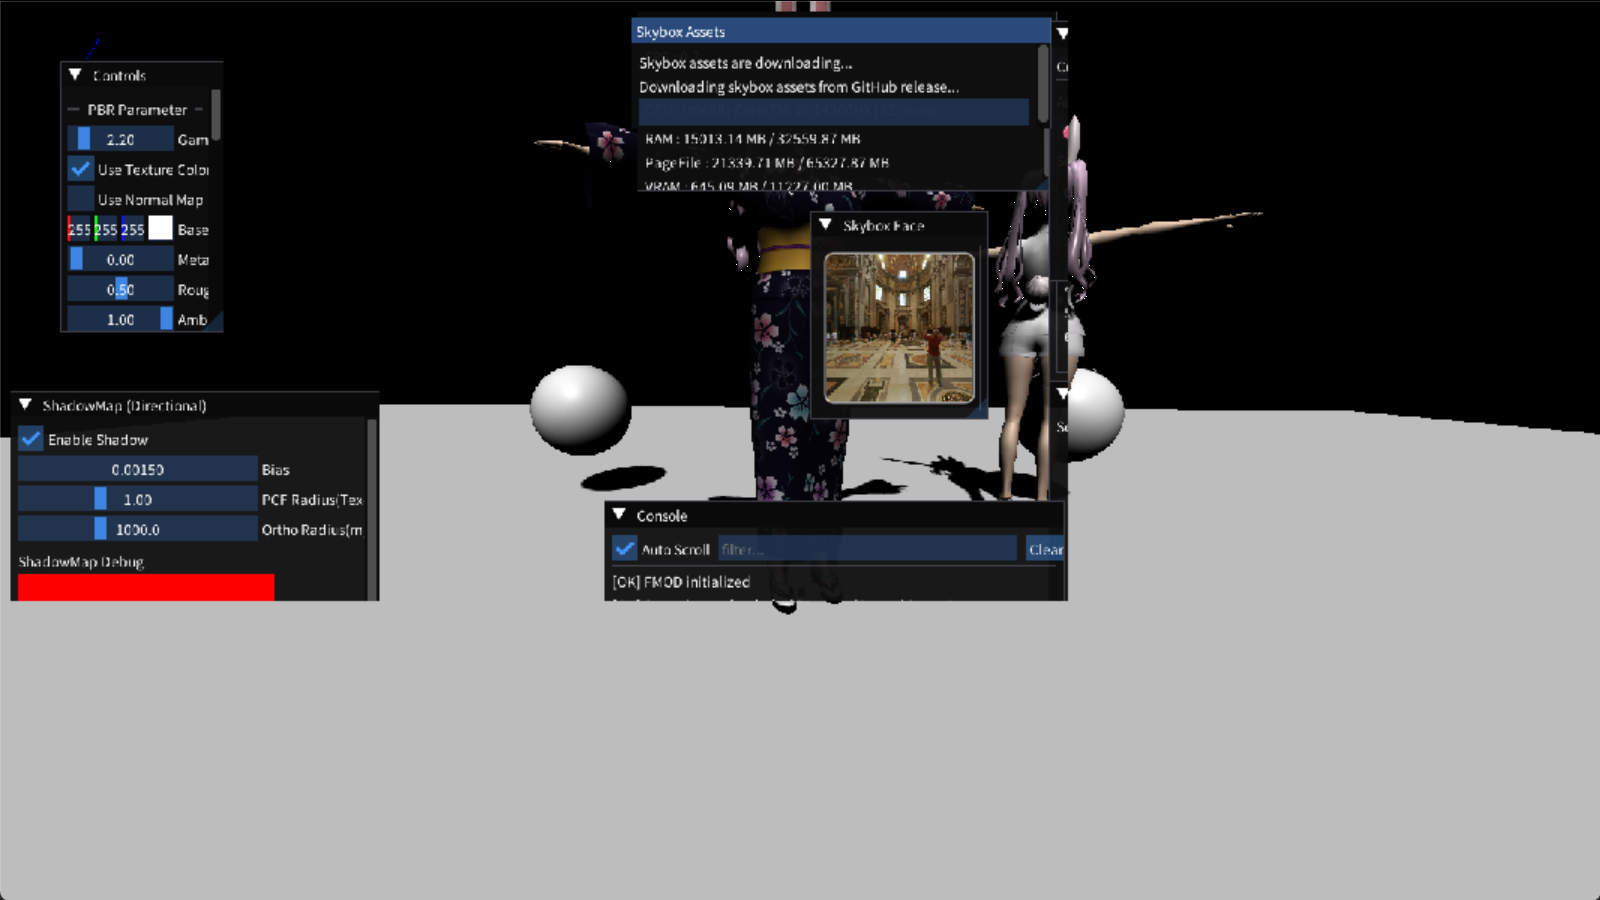
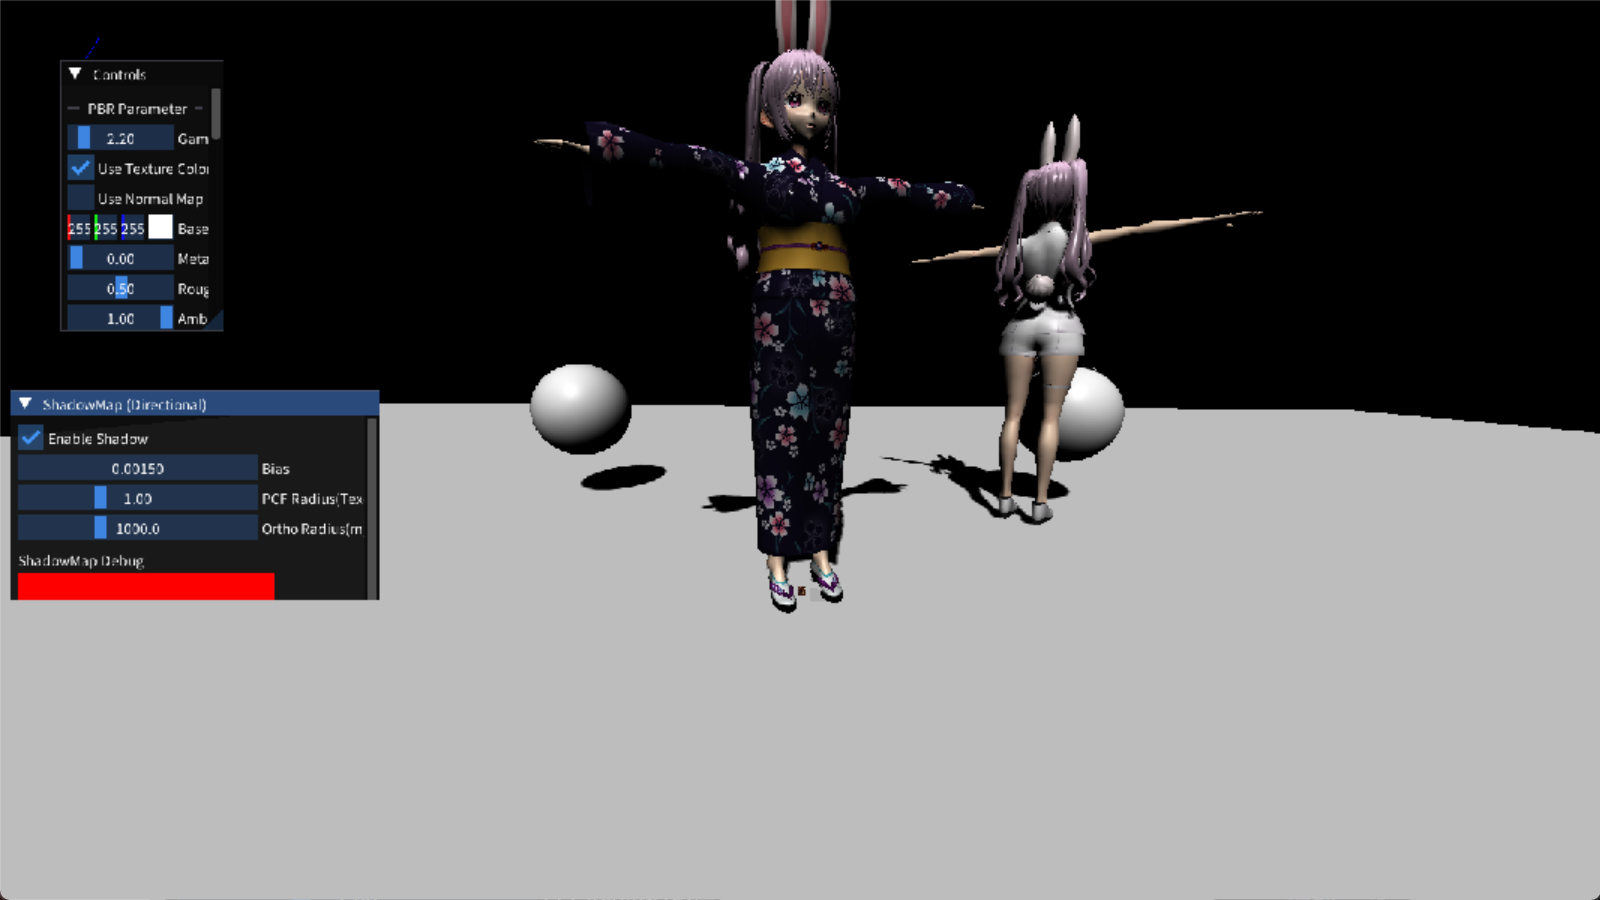
fix: polish public README capture media

diff --git a/Dx11/33_Sound_Animation_Camera_Motion/App.cpp b/Dx11/33_Sound_Animation_Camera_Motion/App.cpp
@@ -485,7 +485,7 @@ struct App::Impl {
 	int                          m_SpawnTotal = 0;
 
 	// 씬 이미지 창 관련
-	std::wstring                 m_CurrentSceneImagePath = L"..\\Resource\\Image\\SceneA.png";
+	std::wstring                 m_CurrentSceneImagePath = L"..\\Resource\\Image\\Public\\Comic\\01.png";
 	ID3D11ShaderResourceView*    m_pSceneImageSRV = nullptr;
 	ImVec2                       m_SceneImageSize = ImVec2(0, 0);
 	bool                         m_ShowSceneImageWindow = true;
@@ -991,7 +991,7 @@ void App::OnUpdate(const float& dt)
 			m_->PushLog("[Scene Change] Change Scane to <SceneA>");
 			m_SceneIndex = 0;
 			// 씬 이미지 경로 변경
-			m_->m_CurrentSceneImagePath = L"..\\Resource\\Image\\SceneA.png";
+			m_->m_CurrentSceneImagePath = L"..\\Resource\\Image\\Public\\Comic\\01.png";
 			LoadSceneImage(m_->m_CurrentSceneImagePath);
 			// 팝업 표시
 			m_->m_ShowScenePopup = true;
@@ -1459,11 +1459,14 @@ void App::OnRender()
 	ImGui::NewFrame();
 
 	RenderControlPannel();
-	RenderSceneCollection();
-	RenderModelPannel();
-	RenderConsolPannel();
-	m_->m_SystemInfo.RenderUI();
-	RenderSceneImageWindow();
+	if (!ReadmeCapture::IsEnabled())
+	{
+		RenderSceneCollection();
+		RenderModelPannel();
+		RenderConsolPannel();
+		m_->m_SystemInfo.RenderUI();
+		RenderSceneImageWindow();
+	}
 	const unsigned int skyboxGeneration = SkyboxAssetManager::GetCompletedGeneration();
 	if (skyboxGeneration != m_->m_SkyboxAssetGeneration)
 	{

diff --git a/Dx11/35_DeferredRendering/App.cpp b/Dx11/35_DeferredRendering/App.cpp
@@ -602,9 +602,9 @@ struct App::Impl {
 	int m_SpawnTotal = 0;
 
 	// 씬 이미지 창 관련
-	std::wstring m_CurrentSceneImagePath = L"..\\Resource\\Image\\SceneA.png";
+	std::wstring m_CurrentSceneImagePath = L"..\\Resource\\Image\\Public\\Comic\\01.png";
 	std::wstring m_OriginalSceneImagePath =
-		L"..\\Resource\\Image\\SceneA.png"; // 원본 이미지 경로
+		L"..\\Resource\\Image\\Public\\Comic\\01.png"; // 원본 이미지 경로
 	std::wstring m_TempSceneImagePath;      // 임시 이미지 경로
 	ID3D11ShaderResourceView* m_pSceneImageSRV = nullptr;
 	ImVec2 m_SceneImageSize = ImVec2(0, 0);
@@ -3904,12 +3904,12 @@ void App::RenderSceneImageWindow() {
 					// 현재 씬에 따라 다른 임시 이미지와 메시지 설정
 					if (m_SceneIndex == 0) {
 						// SceneA일 때 SceneB 이미지로 변경
-						m_->m_TempSceneImagePath = L"..\\Resource\\Image\\SceneB.png";
+						m_->m_TempSceneImagePath = L"..\\Resource\\Image\\Public\\Comic\\02.png";
 						m_->m_ScenePopupMessage = Utf8FromWString(L"안녕하세요 토끼씨!");
 					}
 					else {
 						// SceneB일 때 SceneA 이미지로 변경
-						m_->m_TempSceneImagePath = L"..\\Resource\\Image\\SceneA.png";
+						m_->m_TempSceneImagePath = L"..\\Resource\\Image\\Public\\Comic\\01.png";
 						m_->m_ScenePopupMessage = Utf8FromWString(L"기뻐요 토끼씨!");
 					}
 

diff --git a/Dx11/28_Scene_Shared3DModel_Animation/App.cpp b/Dx11/28_Scene_Shared3DModel_Animation/App.cpp
@@ -480,7 +480,7 @@ struct App::Impl {
 	int                          m_SpawnTotal = 0;
 
 	// 씬 이미지 창 관련
-	std::wstring                 m_CurrentSceneImagePath = L"..\\Resource\\Image\\SceneA.png";
+	std::wstring                 m_CurrentSceneImagePath = L"..\\Resource\\Image\\Public\\Comic\\01.png";
 	ID3D11ShaderResourceView*    m_pSceneImageSRV = nullptr;
 	ImVec2                       m_SceneImageSize = ImVec2(0, 0);
 	bool                         m_ShowSceneImageWindow = true;
@@ -900,7 +900,7 @@ void App::OnUpdate(const float& dt)
 			m_->PushLog("[Scene Change] Change Scane to <SceneB>");
 			m_SceneIndex = 1;
 			// 씬 이미지 경로 변경
-			m_->m_CurrentSceneImagePath = L"..\\Resource\\Image\\SceneB.png";
+			m_->m_CurrentSceneImagePath = L"..\\Resource\\Image\\Public\\Comic\\02.png";
 			LoadSceneImage(m_->m_CurrentSceneImagePath);
 			// 팝업 표시
 			m_->m_ShowScenePopup = true;
@@ -929,7 +929,7 @@ void App::OnUpdate(const float& dt)
 			m_->PushLog("[Scene Change] Change Scane to <SceneA>");
 			m_SceneIndex = 0;
 			// 씬 이미지 경로 변경
-			m_->m_CurrentSceneImagePath = L"..\\Resource\\Image\\SceneA.png";
+			m_->m_CurrentSceneImagePath = L"..\\Resource\\Image\\Public\\Comic\\01.png";
 			LoadSceneImage(m_->m_CurrentSceneImagePath);
 			// 팝업 표시
 			m_->m_ShowScenePopup = true;

diff --git a/Dx11/29_MousePicking/App.cpp b/Dx11/29_MousePicking/App.cpp
@@ -481,7 +481,7 @@ struct App::Impl {
 	int                          m_SpawnTotal = 0;
 
 	// 씬 이미지 창 관련
-	std::wstring                 m_CurrentSceneImagePath = L"..\\Resource\\Image\\SceneA.png";
+	std::wstring                 m_CurrentSceneImagePath = L"..\\Resource\\Image\\Public\\Comic\\01.png";
 	ID3D11ShaderResourceView*    m_pSceneImageSRV = nullptr;
 	ImVec2                       m_SceneImageSize = ImVec2(0, 0);
 	bool                         m_ShowSceneImageWindow = true;
@@ -900,7 +900,7 @@ void App::OnUpdate(const float& dt)
 			m_->PushLog("[Scene Change] Change Scane to <SceneB>");
 			m_SceneIndex = 1;
 			// 씬 이미지 경로 변경
-			m_->m_CurrentSceneImagePath = L"..\\Resource\\Image\\SceneB.png";
+			m_->m_CurrentSceneImagePath = L"..\\Resource\\Image\\Public\\Comic\\02.png";
 			LoadSceneImage(m_->m_CurrentSceneImagePath);
 			// 팝업 표시
 			m_->m_ShowScenePopup = true;
@@ -929,7 +929,7 @@ void App::OnUpdate(const float& dt)
 			m_->PushLog("[Scene Change] Change Scane to <SceneA>");
 			m_SceneIndex = 0;
 			// 씬 이미지 경로 변경
-			m_->m_CurrentSceneImagePath = L"..\\Resource\\Image\\SceneA.png";
+			m_->m_CurrentSceneImagePath = L"..\\Resource\\Image\\Public\\Comic\\01.png";
 			LoadSceneImage(m_->m_CurrentSceneImagePath);
 			// 팝업 표시
 			m_->m_ShowScenePopup = true;

diff --git a/Dx11/30_PBR_BRDF/App.cpp b/Dx11/30_PBR_BRDF/App.cpp
@@ -503,7 +503,7 @@ struct App::Impl {
 	int                          m_SpawnTotal = 0;
 
 	// 씬 이미지 창 관련
-	std::wstring                 m_CurrentSceneImagePath = L"..\\Resource\\Image\\SceneA.png";
+	std::wstring                 m_CurrentSceneImagePath = L"..\\Resource\\Image\\Public\\Comic\\01.png";
 	ID3D11ShaderResourceView*    m_pSceneImageSRV = nullptr;
 	ImVec2                       m_SceneImageSize = ImVec2(0, 0);
 	bool                         m_ShowSceneImageWindow = true;
@@ -945,7 +945,7 @@ void App::OnUpdate(const float& dt)
 			m_->PushLog("[Scene Change] Change Scane to <SceneB>");
 			m_SceneIndex = 1;
 			// 씬 이미지 경로 변경
-			m_->m_CurrentSceneImagePath = L"..\\Resource\\Image\\SceneB.png";
+			m_->m_CurrentSceneImagePath = L"..\\Resource\\Image\\Public\\Comic\\02.png";
 			LoadSceneImage(m_->m_CurrentSceneImagePath);
 			// 팝업 표시
 			m_->m_ShowScenePopup = true;
@@ -974,7 +974,7 @@ void App::OnUpdate(const float& dt)
 			m_->PushLog("[Scene Change] Change Scane to <SceneA>");
 			m_SceneIndex = 0;
 			// 씬 이미지 경로 변경
-			m_->m_CurrentSceneImagePath = L"..\\Resource\\Image\\SceneA.png";
+			m_->m_CurrentSceneImagePath = L"..\\Resource\\Image\\Public\\Comic\\01.png";
 			LoadSceneImage(m_->m_CurrentSceneImagePath);
 			// 팝업 표시
 			m_->m_ShowScenePopup = true;

diff --git a/Dx11/Common/ReadmeCapture.h b/Dx11/Common/ReadmeCapture.h
@@ -7,18 +7,22 @@ namespace ReadmeCapture
 {
     inline bool IsEnabled()
     {
+        static const bool enabled = []()
+        {
 #if defined(_MSC_VER)
-        char* value = nullptr;
-        size_t valueLength = 0;
-        if (_dupenv_s(&value, &valueLength, "DX11_README_CAPTURE") != 0 || !value)
-            return false;
+            char* value = nullptr;
+            size_t valueLength = 0;
+            if (_dupenv_s(&value, &valueLength, "DX11_README_CAPTURE") != 0 || !value)
+                return false;
 
-        const bool enabled = value[0] != '\0' && std::strcmp(value, "0") != 0;
-        std::free(value);
-        return enabled;
+            const bool captureEnabled = value[0] != '\0' && std::strcmp(value, "0") != 0;
+            std::free(value);
+            return captureEnabled;
 #else
-        const char* value = std::getenv("DX11_README_CAPTURE");
-        return value != nullptr && value[0] != '\0' && std::strcmp(value, "0") != 0;
+            const char* value = std::getenv("DX11_README_CAPTURE");
+            return value != nullptr && value[0] != '\0' && std::strcmp(value, "0") != 0;
 #endif
+        }();
+        return enabled;
     }
 }

diff --git a/Dx11/34_ToneMapping/App.cpp b/Dx11/34_ToneMapping/App.cpp
@@ -497,7 +497,7 @@ struct App::Impl {
 	int                          m_SpawnTotal = 0;
 
 	// 씬 이미지 창 관련
-	std::wstring                 m_CurrentSceneImagePath = L"..\\Resource\\Image\\SceneA.png";
+	std::wstring                 m_CurrentSceneImagePath = L"..\\Resource\\Image\\Public\\Comic\\01.png";
 	ID3D11ShaderResourceView*    m_pSceneImageSRV = nullptr;
 	ImVec2                       m_SceneImageSize = ImVec2(0, 0);
 	bool                         m_ShowSceneImageWindow = true;
@@ -1039,7 +1039,7 @@ void App::OnUpdate(const float& dt)
 			m_->PushLog("[Scene Change] Change Scane to <SceneA>");
 			m_SceneIndex = 0;
 			// 씬 이미지 경로 변경
-			m_->m_CurrentSceneImagePath = L"..\\Resource\\Image\\SceneA.png";
+			m_->m_CurrentSceneImagePath = L"..\\Resource\\Image\\Public\\Comic\\01.png";
 			LoadSceneImage(m_->m_CurrentSceneImagePath);
 			// 팝업 표시
 			m_->m_ShowScenePopup = true;

diff --git a/Dx11/31_IBL/App.cpp b/Dx11/31_IBL/App.cpp
@@ -480,7 +480,7 @@ struct App::Impl {
 	int                          m_SpawnTotal = 0;
 
 	// 씬 이미지 창 관련
-	std::wstring                 m_CurrentSceneImagePath = L"..\\Resource\\Image\\SceneA.png";
+	std::wstring                 m_CurrentSceneImagePath = L"..\\Resource\\Image\\Public\\Comic\\01.png";
 	ID3D11ShaderResourceView*    m_pSceneImageSRV = nullptr;
 	ImVec2                       m_SceneImageSize = ImVec2(0, 0);
 	bool                         m_ShowSceneImageWindow = true;
@@ -930,7 +930,7 @@ void App::OnUpdate(const float& dt)
 			m_->PushLog("[Scene Change] Change Scane to <SceneA>");
 			m_SceneIndex = 0;
 			// 씬 이미지 경로 변경
-			m_->m_CurrentSceneImagePath = L"..\\Resource\\Image\\SceneA.png";
+			m_->m_CurrentSceneImagePath = L"..\\Resource\\Image\\Public\\Comic\\01.png";
 			LoadSceneImage(m_->m_CurrentSceneImagePath);
 			// 팝업 표시
 			m_->m_ShowScenePopup = true;

diff --git a/Dx11/32_Sound_FMOD/App.cpp b/Dx11/32_Sound_FMOD/App.cpp
@@ -484,7 +484,7 @@ struct App::Impl {
 	int                          m_SpawnTotal = 0;
 
 	// 씬 이미지 창 관련
-	std::wstring                 m_CurrentSceneImagePath = L"..\\Resource\\Image\\SceneA.png";
+	std::wstring                 m_CurrentSceneImagePath = L"..\\Resource\\Image\\Public\\Comic\\01.png";
 	ID3D11ShaderResourceView*    m_pSceneImageSRV = nullptr;
 	ImVec2                       m_SceneImageSize = ImVec2(0, 0);
 	bool                         m_ShowSceneImageWindow = true;
@@ -962,7 +962,7 @@ void App::OnUpdate(const float& dt)
 			m_->PushLog("[Scene Change] Change Scane to <SceneA>");
 			m_SceneIndex = 0;
 			// 씬 이미지 경로 변경
-			m_->m_CurrentSceneImagePath = L"..\\Resource\\Image\\SceneA.png";
+			m_->m_CurrentSceneImagePath = L"..\\Resource\\Image\\Public\\Comic\\01.png";
 			LoadSceneImage(m_->m_CurrentSceneImagePath);
 			// 팝업 표시
 			m_->m_ShowScenePopup = true;

diff --git a/Dx11/Common/SkyboxAssetManager.cpp b/Dx11/Common/SkyboxAssetManager.cpp
@@ -1,5 +1,6 @@
 #include "pch.h"
 #include "SkyboxAssetManager.h"
+#include "ReadmeCapture.h"
 
 #include <atomic>
 #include <cstdlib>
@@ -328,6 +329,11 @@ bool SkyboxAssetManager::HasIBLAssetSet(const std::wstring& pathPrefix)
 
 void SkyboxAssetManager::EnsureSkyboxAssetsAsync()
 {
+	if (ReadmeCapture::IsEnabled())
+	{
+		return;
+	}
+
 	StartDownload(false);
 }
 
@@ -368,6 +374,11 @@ namespace
 
 void SkyboxAssetManager::RenderStatusUI()
 {
+	if (ReadmeCapture::IsEnabled())
+	{
+		return;
+	}
+
 	const SkyboxAssetDownloadState state = GetState();
 	if (state == SkyboxAssetDownloadState::Idle || state == SkyboxAssetDownloadState::Ready)
 	{

diff --git a/docs/media/readme/capture-report.md b/docs/media/readme/capture-report.md
@@ -5,7 +5,7 @@ Generated: 2026-07-18 03:15:35
 | Project | Attempt | Exe | Output | Status | Dimensions | Bytes | Notes |
 |---|---:|---|---|---|---|---:|---|
 | 01 | 1 | 01_RenderingQuadangle.exe | docs/media/readme/01-RenderingQuadangle.png | Success | 1600x900 | 220682 | PNG captured |
-| 01 | 1 | 01_RenderingQuadangle.exe | docs/media/readme/01-RenderingQuadangle.gif | Success | 800x450 | 1559892 | GIF polished with a subtle presentation pan over captured runtime frames |
+| 01 | 1 | 01_RenderingQuadangle.exe | docs/media/readme/01-RenderingQuadangle.gif | Success | 800x450 | 1324657 | GIF generated from the captured PNG with the reproducible presentation-pan stage |
 | 02 | 1 | 02_RenderingCube.exe | docs/media/readme/02-RenderingCube.png | Success | 1600x900 | 206148 | PNG captured |
 | 02 | 1 | 02_RenderingCube.exe | docs/media/readme/02-RenderingCube.gif | Success | 800x450 | 183614 | GIF captured; source frames collected in 3928 ms |
 | 03 | 1 | 03_RenderingMeshAndSceneGraph.exe | docs/media/readme/03-RenderingMeshAndSceneGraph.png | Success | 1600x900 | 197171 | PNG captured |
@@ -59,7 +59,7 @@ Generated: 2026-07-18 03:15:35
 | 27 | 1 | 27_DebugDraw.exe | docs/media/readme/27-DebugDraw.png | Success | 1600x900 | 362339 | PNG captured |
 | 27 | 1 | 27_DebugDraw.exe | docs/media/readme/27-DebugDraw.gif | Success | 800x450 | 959167 | GIF captured; source frames collected in 3922 ms |
 | 28 | 1 | 28_Scene_Shared3DModel_Animation.exe | docs/media/readme/28-Scene-Shared3DModel-Animation.png | Success | 1600x900 | 166473 | PNG captured |
-| 28 | 1 | 28_Scene_Shared3DModel_Animation.exe | docs/media/readme/28-Scene-Shared3DModel-Animation.gif | Success | 800x450 | 2353410 | GIF polished with a subtle presentation pan over captured runtime frames |
+| 28 | 1 | 28_Scene_Shared3DModel_Animation.exe | docs/media/readme/28-Scene-Shared3DModel-Animation.gif | Success | 800x450 | 1363883 | GIF generated from the captured PNG with the reproducible presentation-pan stage |
 | 29 | 1 | 29_MousePicking.exe | docs/media/readme/29-MousePicking.png | Success | 1600x900 | 163912 | PNG captured |
 | 29 | 1 | 29_MousePicking.exe | docs/media/readme/29-MousePicking.gif | Success | 800x450 | 232161 | GIF captured; source frames collected in 3930 ms |
 | 30 | 1 | 30_PBR_BRDF.exe | docs/media/readme/30-PBR-BRDF.png | Success | 1600x900 | 328725 | PNG captured |
@@ -68,8 +68,8 @@ Generated: 2026-07-18 03:15:35
 | 31 | 1 | 31_IBL.exe | docs/media/readme/31-IBL.gif | Success | 800x450 | 324407 | GIF captured; source frames collected in 3919 ms |
 | 32 | 1 | 32_Sound_FMOD.exe | docs/media/readme/32-Sound-FMOD.png | Success | 1600x900 | 316667 | PNG captured |
 | 32 | 1 | 32_Sound_FMOD.exe | docs/media/readme/32-Sound-FMOD.gif | Success | 800x450 | 325288 | GIF captured; source frames collected in 3917 ms |
-| 33 | 1 | 33_Sound_Animation_Camera_Motion.exe | docs/media/readme/33-Sound-Animation-Camera-Motion.png | Success | 1600x900 | 316770 | PNG captured |
-| 33 | 1 | 33_Sound_Animation_Camera_Motion.exe | docs/media/readme/33-Sound-Animation-Camera-Motion.gif | Success | 800x450 | 2257656 | GIF polished with a subtle presentation pan over captured runtime frames |
+| 33 | 1 | 33_Sound_Animation_Camera_Motion.exe | docs/media/readme/33-Sound-Animation-Camera-Motion.png | Success | 1600x900 | 207818 | PNG captured in the interactive desktop session |
+| 33 | 1 | 33_Sound_Animation_Camera_Motion.exe | docs/media/readme/33-Sound-Animation-Camera-Motion.gif | Success | 800x450 | 1417659 | GIF generated from the captured PNG with the reproducible presentation-pan stage |
 | 34 | 1 | 34_ToneMapping.exe | docs/media/readme/34-ToneMapping.png | Success | 1600x900 | 257385 | PNG captured |
 | 34 | 1 | 34_ToneMapping.exe | docs/media/readme/34-ToneMapping.gif | Success | 800x450 | 292890 | GIF captured; source frames collected in 3924 ms |
 | 35 | 1 | 35_DeferredRendering.exe | docs/media/readme/35-DeferredRendering.png | Success | 1600x900 | 257372 | PNG captured |
@@ -77,4 +77,4 @@ Generated: 2026-07-18 03:15:35
 | 36 | 1 | 36_AdvancedAnim_Sound_Click.exe | docs/media/readme/36-AdvancedAnim-Sound-Click.png | Success | 1600x900 | 167278 | PNG captured |
 | 36 | 1 | 36_AdvancedAnim_Sound_Click.exe | docs/media/readme/36-advanced-anim-sound-click.gif | Success | 800x450 | 357403 | GIF captured; source frames collected in 3922 ms |
 | 37 | 1 | 37_Blueprint.exe | docs/media/readme/37-Blueprint.png | Success | 1600x900 | 73509 | PNG captured |
-| 37 | 1 | 37_Blueprint.exe | docs/media/readme/37-Blueprint.gif | Success | 800x450 | 2453183 | GIF polished with a subtle presentation pan over captured runtime frames |
+| 37 | 1 | 37_Blueprint.exe | docs/media/readme/37-Blueprint.gif | Success | 800x450 | 1056576 | GIF generated from the captured PNG with the reproducible presentation-pan stage |
